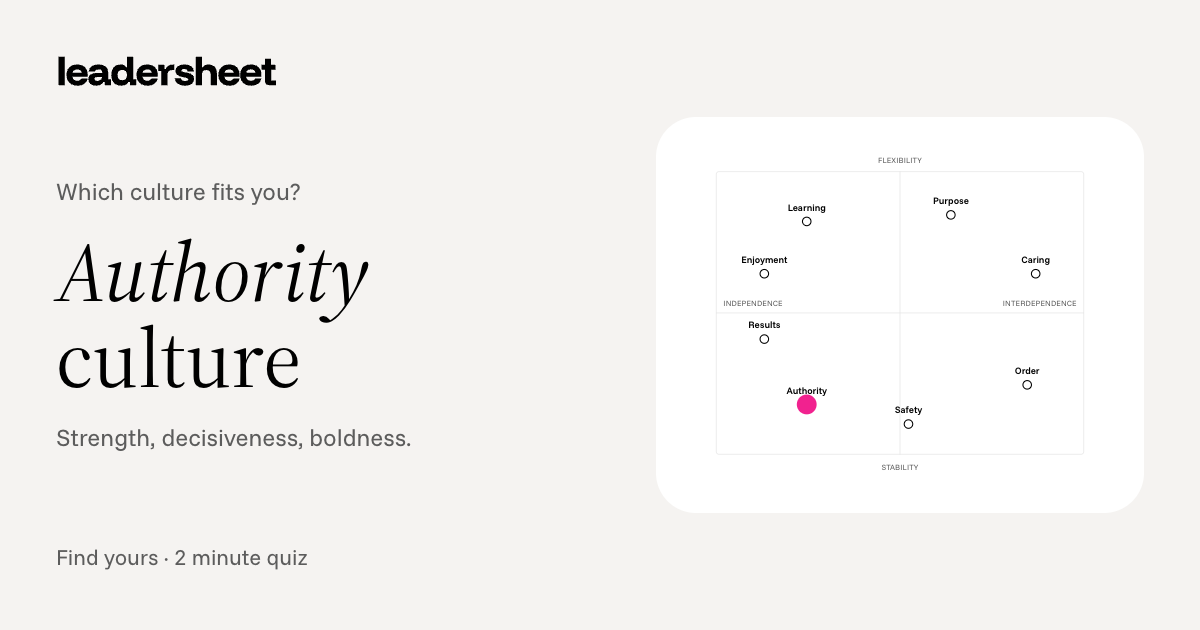
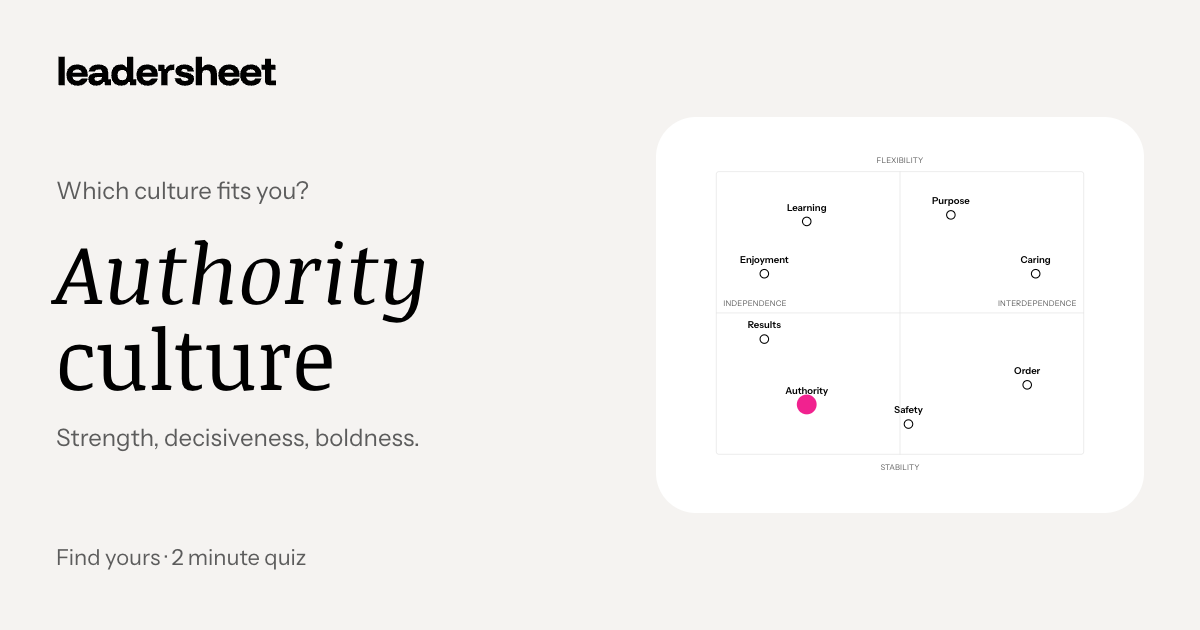
Closest open matches to Brilliant's fonts: Noticia Text headlines, Instrument Sans text

diff --git a/src/app/layout.tsx b/src/app/layout.tsx
@@ -1,5 +1,5 @@
 import type { Metadata, Viewport } from "next"
-import { Funnel_Display, Funnel_Sans, Martian_Mono, Source_Serif_4 } from "next/font/google"
+import { Funnel_Display, Instrument_Sans, Martian_Mono, Noticia_Text } from "next/font/google"
 import { ThemeProvider } from "next-themes"
 import "./globals.css"
 import { ProgressProvider } from "@/lib/store"
@@ -17,16 +17,18 @@ const funnelDisplay = Funnel_Display({
   subsets: ["latin"],
   display: "swap",
 })
-// Source Serif 4 (Frank Grießhammer for Adobe, SIL Open Font License): the headlines, with real italics.
-const serif = Source_Serif_4({
-  variable: "--font-source-serif",
+// Brilliant sets headlines in CoFo Robert, a Clarendon-style slab serif, and text in CoFo Sans (both paid).
+// The closest open matches, compared side by side: Noticia Text (JM Solé) and Instrument Sans
+// (Rodrigo Fuenzalida and Jordan Egstad), both SIL Open Font License.
+const serif = Noticia_Text({
+  variable: "--font-noticia",
   subsets: ["latin"],
+  weight: ["400", "700"],
   style: ["normal", "italic"],
-  axes: ["opsz"],
   display: "swap",
 })
-const funnelSans = Funnel_Sans({
-  variable: "--font-funnel-sans",
+const instrument = Instrument_Sans({
+  variable: "--font-instrument",
   subsets: ["latin"],
   display: "swap",
 })
@@ -83,7 +85,7 @@ export default function RootLayout({ children }: { children: React.ReactNode }) 
   // The build date picks a starting session; the browser's date replaces it after load.
   const { id, n, date } = currentSession()
   return (
-    <html lang="en" suppressHydrationWarning className={`${funnelDisplay.variable} ${serif.variable} ${funnelSans.variable} ${martian.variable} antialiased`}>
+    <html lang="en" suppressHydrationWarning className={`${funnelDisplay.variable} ${serif.variable} ${instrument.variable} ${martian.variable} antialiased`}>
       <body className="flex min-h-dvh flex-col">
         <ThemeProvider attribute="class" defaultTheme="light" enableSystem disableTransitionOnChange>
           <ThemeColor />

diff --git a/src/app/page.tsx b/src/app/page.tsx
@@ -3,6 +3,7 @@ import { HomeFocus, OpenThisWeek } from "@/components/learn/this-week"
 import Link from "next/link"
 import { Button } from "@/components/ui/button"
 import { HeroPlayer } from "@/components/film/hero-player"
+import { HeroCards } from "@/components/learn/hero-cards"
 import { HeroCtas, HeroLine, HomeArcade } from "@/components/play/home-bits"
 import { CheckCount, SheetGrid } from "@/components/learn/sheets"
 import { C, sheetSummaries } from "@/data/course"
@@ -29,12 +30,24 @@ export default function Home() {
             </HeroCtas>
           </div>
         </div>
-        <div className="mx-auto max-w-[820px] px-4 pb-16 sm:px-6 lg:pb-24">
-          <HeroPlayer />
+        <HeroCards />
+      </section>
+
+      <section className="bg-card">
+        <div className="mx-auto grid max-w-[1240px] items-center gap-10 px-4 py-16 sm:px-6 lg:grid-cols-[minmax(0,0.8fr)_minmax(0,1.2fr)] lg:gap-16 lg:py-24">
+          <div className="grid gap-4">
+            <h2 className="text-[34px] leading-[1.15] sm:text-[40px]">Move the model, see what changes</h2>
+            <p className="max-w-[44ch] text-lg leading-relaxed text-muted-foreground">
+              Every lesson has a model you can drag, tap or change. Restructure a company and watch what it gains and what it gives up.
+            </p>
+          </div>
+          <div className="rounded-[28px] bg-background p-2">
+            <HeroPlayer />
+          </div>
         </div>
       </section>
 
-      <div className="mx-auto grid max-w-[980px] gap-20 px-4 sm:px-6">
+      <div className="mx-auto grid max-w-[980px] gap-20 px-4 pt-16 sm:px-6 lg:pt-24">
 
         <HomeArcade slot="top" />
 

diff --git a/src/app/built/page.tsx b/src/app/built/page.tsx
@@ -42,8 +42,9 @@ const STACK: { title: string; items: Item[] }[] = [
   {
     title: "Type",
     items: [
-      { name: "Funnel Display", what: "The wordmark and headlines. NORD ID and Kristian Möller, SIL Open Font License.", url: "https://fonts.google.com/specimen/Funnel+Display" },
-      { name: "Funnel Sans", what: "Body text. SIL Open Font License.", url: "https://fonts.google.com/specimen/Funnel+Sans" },
+      { name: "Funnel Display", what: "The wordmark. NORD ID and Kristian Möller, SIL Open Font License.", url: "https://fonts.google.com/specimen/Funnel+Display" },
+      { name: "Noticia Text", what: "Headlines. JM Solé, SIL Open Font License.", url: "https://fonts.google.com/specimen/Noticia+Text" },
+      { name: "Instrument Sans", what: "Body text. Rodrigo Fuenzalida and Jordan Egstad, SIL Open Font License.", url: "https://fonts.google.com/specimen/Instrument+Sans" },
       { name: "Martian Mono", what: "Sheet numbers, dates, scores and labels. SIL Open Font License.", url: "https://fonts.google.com/specimen/Martian+Mono" },
     ],
   },

diff --git a/src/brand/presets/leadersheet/logo.tsx b/src/brand/presets/leadersheet/logo.tsx
@@ -2,7 +2,7 @@ import { cn } from "@/lib/utils"
 
 /**
  * Leadersheet wordmark: the name set in Funnel Display ExtraBold (NORD ID and
- * Kristian Möller, SIL Open Font License), turned into outlines, in one colour. The icon is "ls" on the lime.
+ * Kristian Möller, SIL Open Font License), turned into outlines, in one colour. The icon is "ls" in white on a black tile.
  * Outlines come from docs/marks/funnel/build.py.
  */
 const VIEWBOX = "-10 -860 6490 880"
@@ -19,8 +19,8 @@ export function LogoMark({ className, title }: { className?: string; title?: str
       aria-hidden={title ? undefined : true}
       aria-label={title}
     >
-      <rect x="-700" y="-700" width="1400" height="1400" rx="308" fill="var(--signal-2)" />
-      <path d={S} fill="var(--signal-2-foreground)" />
+      <rect x="-700" y="-700" width="1400" height="1400" rx="308" fill="var(--foreground)" />
+      <path d={S} fill="var(--background)" />
     </svg>
   )
 }

diff --git a/src/components/ui/button.tsx b/src/components/ui/button.tsx
@@ -8,9 +8,9 @@ const buttonVariants = cva(
   {
     variants: {
       variant: {
-        default: "bg-primary text-primary-foreground hover:bg-primary/88",
+        default: "bg-primary text-primary-foreground shadow-[0_4px_0_#3a3a3a] hover:bg-primary/90 active:shadow-[0_1px_0_#3a3a3a] active:translate-y-[3px] dark:shadow-[0_4px_0_#9a9a9a]",
         outline:
-          "border-rule/50 bg-card hover:border-foreground/60 hover:bg-card aria-expanded:bg-muted aria-expanded:text-foreground",
+          "border-border bg-card shadow-[0_4px_0_var(--border)] hover:bg-card active:translate-y-[3px] active:shadow-[0_1px_0_var(--border)] aria-expanded:bg-muted aria-expanded:text-foreground",
         secondary:
           "bg-secondary text-secondary-foreground hover:bg-[color-mix(in_oklch,var(--secondary),var(--foreground)_5%)] aria-expanded:bg-secondary aria-expanded:text-secondary-foreground",
         ghost:

diff --git a/src/app/globals.css b/src/app/globals.css
@@ -53,11 +53,11 @@
   --color-rule: var(--rule);
   --color-grid: var(--grid);
 
-  --font-sans: var(--font-funnel-sans), ui-sans-serif, system-ui, sans-serif;
+  --font-sans: var(--font-instrument), ui-sans-serif, system-ui, sans-serif;
   --font-heading: var(--font-funnel-display), ui-sans-serif, system-ui, sans-serif;
-  --font-serif: var(--font-source-serif), ui-serif, Georgia, serif;
+  --font-serif: var(--font-noticia), ui-serif, Georgia, serif;
   /* One family across the site: numbers and labels use the text face, with tabular figures. */
-  --font-mono: var(--font-funnel-sans), ui-sans-serif, system-ui, sans-serif;
+  --font-mono: var(--font-instrument), ui-sans-serif, system-ui, sans-serif;
 
   --radius-sm: 6px;
   --radius-md: 10px;
@@ -135,7 +135,7 @@
   h1,
   h2 {
     font-family: var(--font-serif);
-    font-weight: 500;
+    font-weight: 400;
     letter-spacing: -0.02em;
   }
 }
